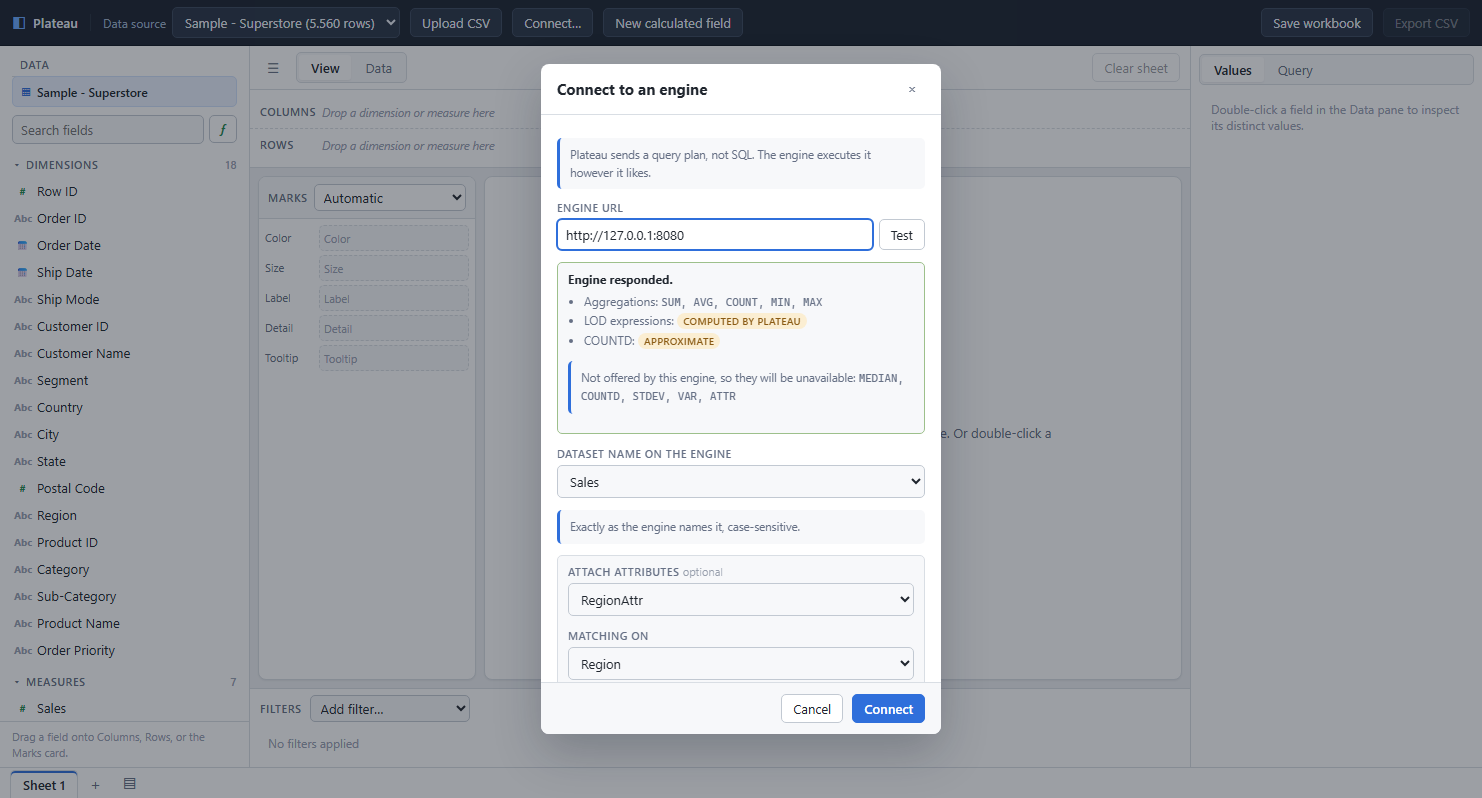
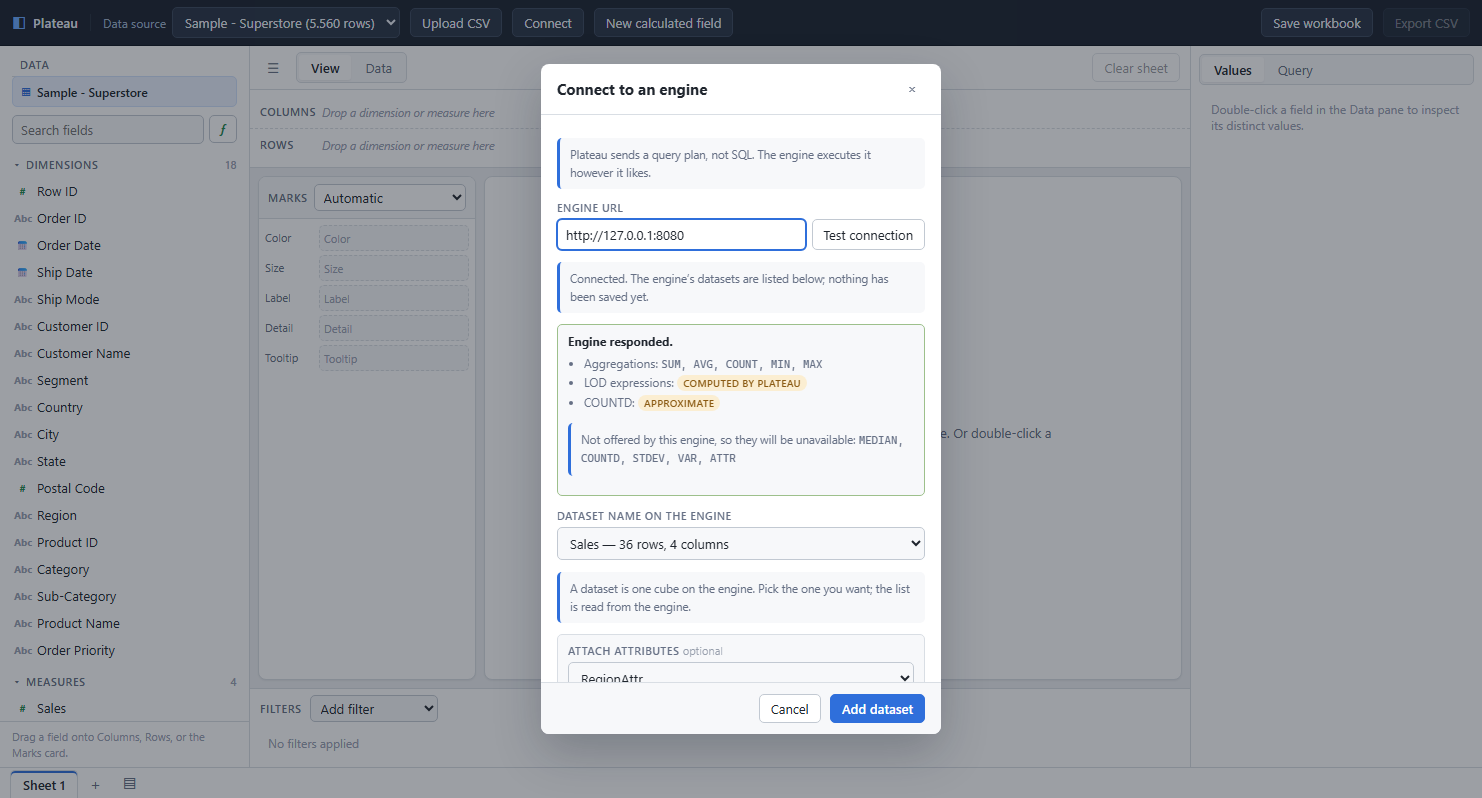
Say what a dataset is, and drop the dots from labels
Three questions about the connect dialog, answered in the UI rather than in prose.

1. "What does Test mean?" It probes the engine: reachability, capabilities, and the
   list of datasets. Nothing is saved. The button now says Test connection and a
   line beneath it says what it did and what it cost.

2. "What are the datasets? Tables?" They are the engine's CUBES, and a name alone
   did not say which was which. The picker now carries the shape —
   "Sales — 36 rows, 4 columns" — and flags the ones that are not datasets at all:
   "RegionAttr — attribute table (join only)".

3. "Why am I getting product names connected to regions?" Because the cube chosen
   was Attributes, an attribute table whose value column is TEXT holding product
   names. It is meant to be joined onto a measure cube, not queried on its own.
   Choosing it now raises a warning that says exactly that, because the result looks
   like corrupt data rather than a wrong choice.

Labels lose their ellipsis. "Connect…" became "Connect", "Checking…" became
"Checking", and so on. The dots were doing no work the wording was not already
doing, and they were actively harmful: the character is easy to mangle across
encodings, and it did get mangled — a PowerShell rewrite turned it into three
characters, after which a test that matched "Connect…" failed to find "Connect…"
and reported a missing button instead of a missing match.

That collision also forced a rename: with the toolbar button reading "Connect", the
[…]

diff --git a/src/web/components/ConnectDialog.tsx b/src/web/components/ConnectDialog.tsx
@@ -14,6 +14,7 @@ import {
   fetchJoinCandidates,
   registerRemoteDataset,
   type EngineCapabilities,
+  type EngineCube,
   type JoinCandidate,
 } from '../api';
 
@@ -41,7 +42,7 @@ export function ConnectDialog({ onClose, onConnected }: ConnectDialogProps) {
   const [error, setError] = useState<string | null>(null);
 
   /** Cube names, once the engine has answered. Empty means "type it yourself". */
-  const [cubes, setCubes] = useState<string[]>([]);
+  const [cubes, setCubes] = useState<EngineCube[]>([]);
   /** Attribute cubes that share a dimension with the chosen dataset. */
   const [joinCandidates, setJoinCandidates] = useState<JoinCandidate[]>([]);
   const [joinCube, setJoinCube] = useState('');
@@ -49,6 +50,7 @@ export function ConnectDialog({ onClose, onConnected }: ConnectDialogProps) {
   const [joinAttributes, setJoinAttributes] = useState<string[]>([]);
 
   const chosenCandidate = joinCandidates.find((candidate) => candidate.cube === joinCube);
+  const chosenCube = cubes.find((cube) => cube.name === dataset);
 
   /**
    * Loads the cube list and the joinable attribute cubes.
@@ -168,11 +170,18 @@ export function ConnectDialog({ onClose, onConnected }: ConnectDialogProps) {
                 className="button-secondary"
                 onClick={() => void handleProbe()}
                 disabled={!url.trim() || probe.status === 'probing'}
+                title="Ask the engine what it can do, and list its datasets. Nothing is saved."
               >
-                {probe.status === 'probing' ? 'Checking…' : 'Test'}
+                {probe.status === 'probing' ? 'Checking' : 'Test connection'}
               </button>
             </div>
           </label>
+          {/* "Test" on its own is a mystery; say what it does and what it costs. */}
+          <p className="calc-hint">
+            {probe.status === 'reachable'
+              ? 'Connected. The engine’s datasets are listed below; nothing has been saved yet.'
+              : 'Test connection checks the address, reports what the engine supports, and lists its datasets. It does not save anything.'}
+          </p>
 
           {probe.status === 'reachable' && (
             <div className="connect-result connect-ok">
@@ -237,10 +246,17 @@ export function ConnectDialog({ onClose, onConnected }: ConnectDialogProps) {
                   void loadDiscovery(url.trim(), event.target.value);
                 }}
               >
-                <option value="">Choose a dataset…</option>
+                <option value="">Choose a dataset</option>
                 {cubes.map((cube) => (
-                  <option key={cube} value={cube}>
-                    {cube}
+                  <option key={cube.name} value={cube.name}>
+                    {cube.name}
+                    {cube.isAttributeTable
+                      ? ' — attribute table (join only)'
+                      : cube.rowCount === 0
+                        ? ' — empty'
+                        : cube.rowCount !== null
+                          ? ` — ${cube.rowCount.toLocaleString()} rows, ${cube.columnCount} columns`
+                          : ''}
                   </option>
                 ))}
               </select>
@@ -254,13 +270,21 @@ export function ConnectDialog({ onClose, onConnected }: ConnectDialogProps) {
             )}
           </label>
           {/*
-            The list only exists when the engine exposes it. When it does not, the
-            field stays free text and says so — an invented suggestion list would be
-            worse than none, because a wrong name fails only after the user commits.
+            An attribute table is not a view of the data: its "value" column holds
+            attribute text, so querying it shows product names where a measure was
+            expected. Said plainly, because nothing about the result looks like a
+            wrong choice.
           */}
+          {chosenCube?.isAttributeTable && (
+            <p className="calc-hint calc-hint-warning">
+              <strong>{chosenCube.name}</strong> holds attribute values, not measures — its{' '}
+              <code>value</code> column is text. It is meant to be joined onto a measure cube such
+              as <strong>Sales</strong>, not queried on its own.
+            </p>
+          )}
           <p className="calc-hint">
             {cubes.length > 0
-              ? 'Exactly as the engine names it, case-sensitive.'
+              ? 'A dataset is one cube on the engine. Pick the one you want; the list is read from the engine.'
               : 'Exactly as the engine names it, case-sensitive. This engine cannot list its datasets, so check its own console for the name.'}
           </p>
 
@@ -371,7 +395,12 @@ export function ConnectDialog({ onClose, onConnected }: ConnectDialogProps) {
             onClick={() => void handleConnect()}
             disabled={!canConnect}
           >
-            {busy ? 'Connecting…' : 'Connect'}
+            {/*
+              "Add dataset", not "Connect": the toolbar already has a Connect button
+              that OPENS this dialog, and two buttons sharing one label leaves it
+              unclear which does the work.
+            */}
+            {busy ? 'Adding' : 'Add dataset'}
           </button>
         </footer>
       </div>

diff --git a/src/server/api.ts b/src/server/api.ts
@@ -357,7 +357,30 @@ export function createServer() {
         res.json({ url, cubes: [], unsupported: true });
         return;
       }
-      const cubes = await transport.listDatasets();
+      const names = await transport.listDatasets();
+
+      /*
+       * A name alone is not enough to choose from. The engine's cubes include
+       * empty placeholders and ATTRIBUTE tables whose "value" column is text —
+       * picking one looks like a data problem rather than a wrong choice, because
+       * nothing in the UI said what the cube was.
+       */
+      const cubes = await Promise.all(
+        names.map(async (name) => {
+          try {
+            const catalog = await transport.describe(name);
+            return {
+              name,
+              rowCount: catalog.rowCount,
+              columnCount: catalog.columns.length,
+              isAttributeTable: Boolean(catalog.isAttributeTable),
+            };
+          } catch {
+            return { name, rowCount: null, columnCount: null, isAttributeTable: false };
+          }
+        }),
+      );
+
       res.json({ url, cubes });
     } catch (error) {
       res.json({ url, cubes: [], error: error instanceof Error ? error.message : 'Engine did not respond' });

diff --git a/src/web/api.ts b/src/web/api.ts
@@ -247,9 +247,24 @@ export async function registerRemoteDataset(options: {
   return data.dataset;
 }
 
+/**
+ * A cube on the engine, with enough detail to choose it knowingly.
+ *
+ * `isAttributeTable` matters: those cubes hold attribute values (text) rather than
+ * measures, and are meant to be joined onto a measure cube, not queried on their
+ * own. Querying one looks like corrupt data — a "value" column full of product
+ * names — rather than a wrong choice.
+ */
+export interface EngineCube {
+  name: string;
+  rowCount: number | null;
+  columnCount: number | null;
+  isAttributeTable: boolean;
+}
+
 /** Cubes an engine holds. Empty when the engine predates the endpoint. */
-export async function fetchCubes(url: string): Promise<string[]> {
-  const data = await request<{ cubes: string[]; unsupported?: boolean }>(
+export async function fetchCubes(url: string): Promise<EngineCube[]> {
+  const data = await request<{ cubes: EngineCube[]; unsupported?: boolean }>(
     `/engine/cubes?url=${encodeURIComponent(url)}`,
   );
   return data.cubes ?? [];

diff --git a/src/web/components/FiltersPanel.tsx b/src/web/components/FiltersPanel.tsx
@@ -72,7 +72,7 @@ export function FiltersPanel({
             if (column) setPickerField(column);
           }}
         >
-          <option value="">Add filter…</option>
+          <option value="">Add filter</option>
           {available.map((column) => (
             <option key={column.name} value={column.name}>
               {column.label}
@@ -306,7 +306,7 @@ function CategoricalFilterDialog({
         </div>
 
         <div className="dialog-body">
-          {loading && <p className="dialog-note">Loading values…</p>}
+          {loading && <p className="dialog-note">Loading values</p>}
           {!loading && visible.length === 0 && <p className="dialog-note">No matching values.</p>}
           <ul className="value-list">
             {visible.map((value) => {

diff --git a/src/web/App.tsx b/src/web/App.tsx
@@ -263,7 +263,7 @@ export function App() {
   const handleUpload = useCallback(
     async (file: File) => {
       try {
-        setStatus(`Uploading ${file.name}…`);
+        setStatus(`Uploading ${file.name}`);
         const dataset = await uploadDataset(file);
         await app.refreshDatasets();
         await app.selectDataset(dataset.id);
@@ -356,7 +356,7 @@ export function App() {
         </label>
 
         <button type="button" className="button-secondary" onClick={() => setConnectOpen(true)}>
-          Connect…
+          Connect
         </button>
 
         <button

diff --git a/src/web/components/DashboardView.tsx b/src/web/components/DashboardView.tsx
@@ -97,7 +97,7 @@ export function DashboardView({
             disabled={availableSheets.length === 0}
           >
             <option value="">
-              {availableSheets.length === 0 ? 'All worksheets are placed' : 'Choose a worksheet…'}
+              {availableSheets.length === 0 ? 'All worksheets are placed' : 'Choose a worksheet'}
             </option>
             {availableSheets.map((sheet) => (
               <option key={sheet.id} value={sheet.id}>

diff --git a/src/web/styles.css b/src/web/styles.css
@@ -1997,3 +1997,19 @@ textarea {
   height: 1px;
   background: var(--border);
 }
+
+/* A warning, not a footnote: the wrong cube produces data that looks corrupt. */
+.calc-hint-warning {
+  background: #fff8e6;
+  border: 1px solid #f0d9a0;
+  border-radius: var(--radius);
+  padding: 6px 8px;
+  color: #6b5313;
+}
+
+.calc-hint-warning code {
+  background: #fff;
+  border: 1px solid #f0d9a0;
+  border-radius: 3px;
+  padding: 0 3px;
+}

diff --git a/src/web/components/CalculatedFieldDialog.tsx b/src/web/components/CalculatedFieldDialog.tsx
@@ -359,7 +359,7 @@ export function CalculatedFieldDialog({
             onClick={submit}
             disabled={Boolean(validationError) || !name.trim() || saving}
           >
-            {saving ? 'Saving…' : editing ? 'Save changes' : 'Create field'}
+            {saving ? 'Saving' : editing ? 'Save changes' : 'Create field'}
           </button>
         </footer>
       </div>
